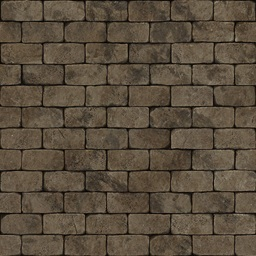
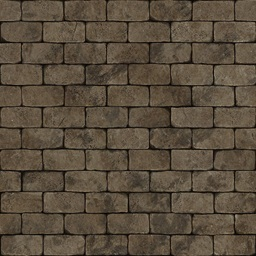
fix normal shader

diff --git a/src/shaders/vertex_shader/base.rs b/src/shaders/vertex_shader/base.rs
@@ -11,6 +11,7 @@ pub struct BaseVertexShader {
     pub projection: Mat4,
 }
 
+/// Used for Color Blending (RGB)
 impl VertexShader<3, 3> for BaseVertexShader {
     fn run(&self, position: Vec3, input: [f32; 3]) -> VertexShaderOutput<3> {
         let mvp = self.projection * (self.view * self.model);
@@ -23,6 +24,7 @@ impl VertexShader<3, 3> for BaseVertexShader {
     }
 }
 
+// Use for Textured
 impl VertexShader<2, 2> for BaseVertexShader {
     fn run(&self, position: Vec3, input: [f32; 2]) -> VertexShaderOutput<2> {
         let mvp = self.projection * (self.view * self.model);
@@ -35,21 +37,7 @@ impl VertexShader<2, 2> for BaseVertexShader {
     }
 }
 
-impl VertexShader<2, 5> for BaseVertexShader {
-    fn run(&self, position: Vec3, input: [f32; 2]) -> VertexShaderOutput<5> {
-        let [u, v] = input;
-        let frag_position = (self.model * position.extend(1.0)).xyz();
-
-        let mvp = self.projection * (self.view * self.model);
-        let position = transform_point_to_clip_space(&position, &mvp);
-
-        VertexShaderOutput {
-            position,
-            parameters: VertexParameters([u, v, frag_position.x, frag_position.y, frag_position.z]),
-        }
-    }
-}
-
+// Used for Color Blend & Lit via Vertex Normals
 impl VertexShader<6, 9> for BaseVertexShader {
     fn run(&self, position: Vec3, input: [f32; 6]) -> VertexShaderOutput<9> {
         let [r, g, b, norm_x, norm_y, norm_z] = input;
@@ -75,6 +63,7 @@ impl VertexShader<6, 9> for BaseVertexShader {
     }
 }
 
+// Used for Textured & Lit via Vertex Normals
 impl VertexShader<5, 8> for BaseVertexShader {
     fn run(&self, position: Vec3, input: [f32; 5]) -> VertexShaderOutput<8> {
         let [u, v, norm_x, norm_y, norm_z] = input;
@@ -95,6 +84,22 @@ impl VertexShader<5, 8> for BaseVertexShader {
                 frag_position.y,
                 frag_position.z,
             ]),
+        }
+    }
+}
+
+// Used for Textured & Lit via Normal Map
+impl VertexShader<2, 5> for BaseVertexShader {
+    fn run(&self, position: Vec3, input: [f32; 2]) -> VertexShaderOutput<5> {
+        let [u, v] = input;
+        let frag_position = (self.model * position.extend(1.0)).xyz();
+
+        let mvp = self.projection * (self.view * self.model);
+        let position = transform_point_to_clip_space(&position, &mvp);
+
+        VertexShaderOutput {
+            position,
+            parameters: VertexParameters([u, v, frag_position.x, frag_position.y, frag_position.z]),
         }
     }
 }

diff --git a/src/graphics/gpu.rs b/src/graphics/gpu.rs
@@ -9,8 +9,7 @@ use crate::{
 };
 
 use super::{
-    clipping::{clip_triangle, ClipResult},
-    ParameterDataBuffer, ParameterDb, Triangle,
+    clipping::{clip_triangle, ClipResult}, rasterizer::X_STEP_SIZE, ParameterDataBuffer, ParameterDb, Triangle
 };
 
 pub struct Gpu {
@@ -26,7 +25,7 @@ impl Gpu {
             screen_height,
             screen_width,
             z_buffer: ZBuffer::new(screen_width, screen_height),
-            frame_buffer: (0..screen_height * screen_width)
+            frame_buffer: (0..(screen_height * screen_width) + X_STEP_SIZE)
                 .map(|_| Default::default())
                 .collect::<Vec<_>>()
                 .into_boxed_slice(),
@@ -131,7 +130,7 @@ pub struct ZBuffer {
 impl ZBuffer {
     pub fn new(screen_width: usize, screen_height: usize) -> Self {
         Self {
-            z_buffer: (0..screen_height * screen_width)
+            z_buffer: (0..(screen_height * screen_width) + X_STEP_SIZE)
                 .map(|_| f32::INFINITY)
                 .collect::<Vec<_>>()
                 .into_boxed_slice(),

diff --git a/src/shaders/pixel_shader/textured.rs b/src/shaders/pixel_shader/textured.rs
@@ -86,8 +86,12 @@ impl PixelShader<5> for TexturedNormalLit {
         // Shader Setup
         let [u, v, pixel_x, pixel_y, pixel_z] = parameters;
         let pixel_position = Vec3::new(pixel_x, pixel_y, pixel_z);
-        let normal = self.normal.sample_2d(u, v).to_vec3();
         let object_color = self.diffuse.sample_2d(u, v).to_vec3();
+
+        // Normal is in (0 -> 1) Ranges
+        // So we need to put it in (-1 -> 1) Range
+        let normal = self.normal.sample_2d(u, v).to_vec3();
+        let normal = ((normal * 2.0) - Vec3::ONE).normalize();
 
         let pixel_to_light = (self.light_position - pixel_position).normalize();
         let light_factor = f32::max(pixel_to_light.dot(normal) * self.light_intensity, 0.0);

diff --git a/notes.md b/notes.md
@@ -1,3 +1,7 @@
+Todo:
+Skinned Animation
+
+
 chatGPT Optimization Suggestions:
 
 Raster/Rendering Level
